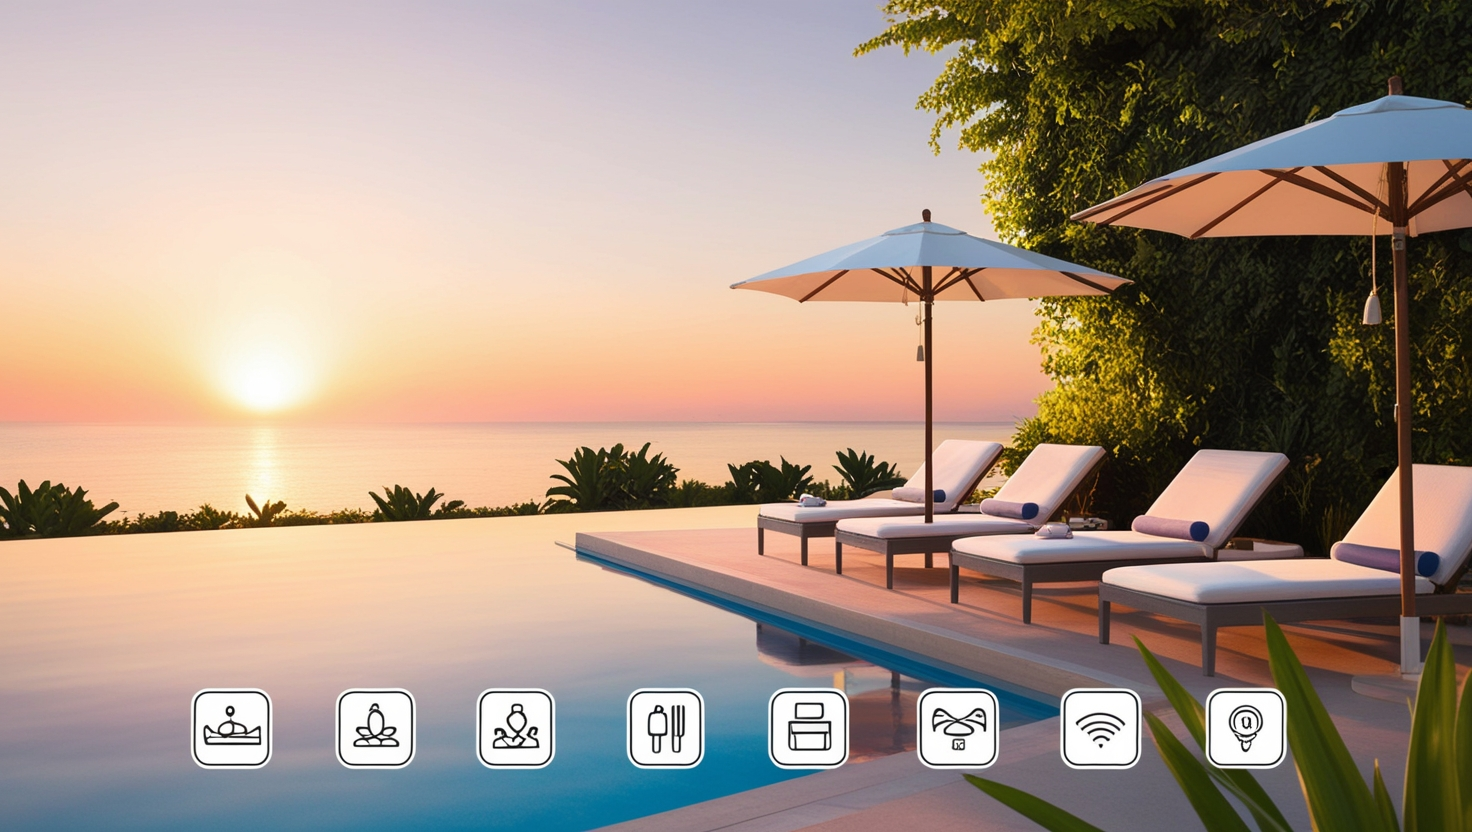
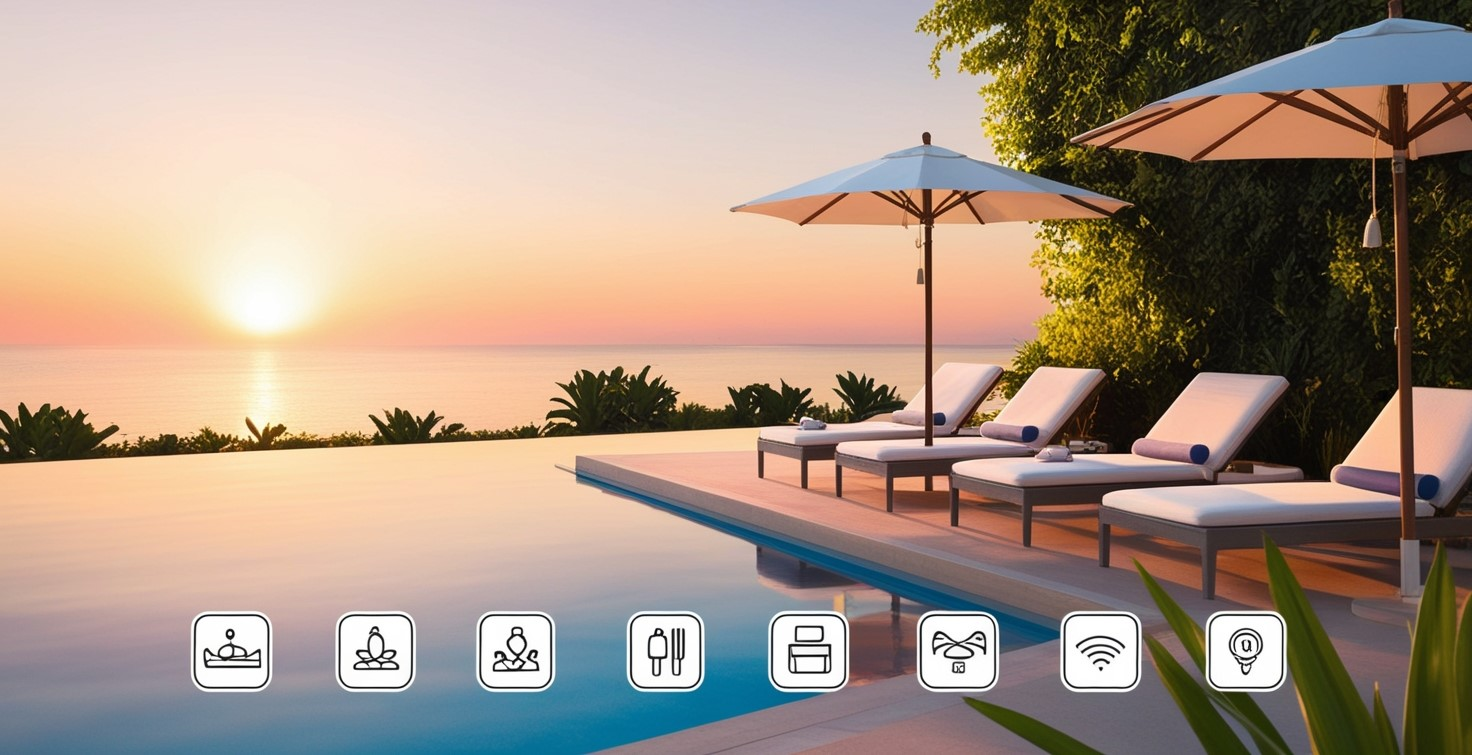
Added background image

diff --git a/src/App.js b/src/App.js
@@ -1,6 +1,6 @@
 import React from 'react'
 import ChatWidget from './components/ChatWidget';
-import image from './assets/img/bg_image1.jpg';
+import image from './assets/img/bg_image.jpg';
 
 function App() {
   return (
